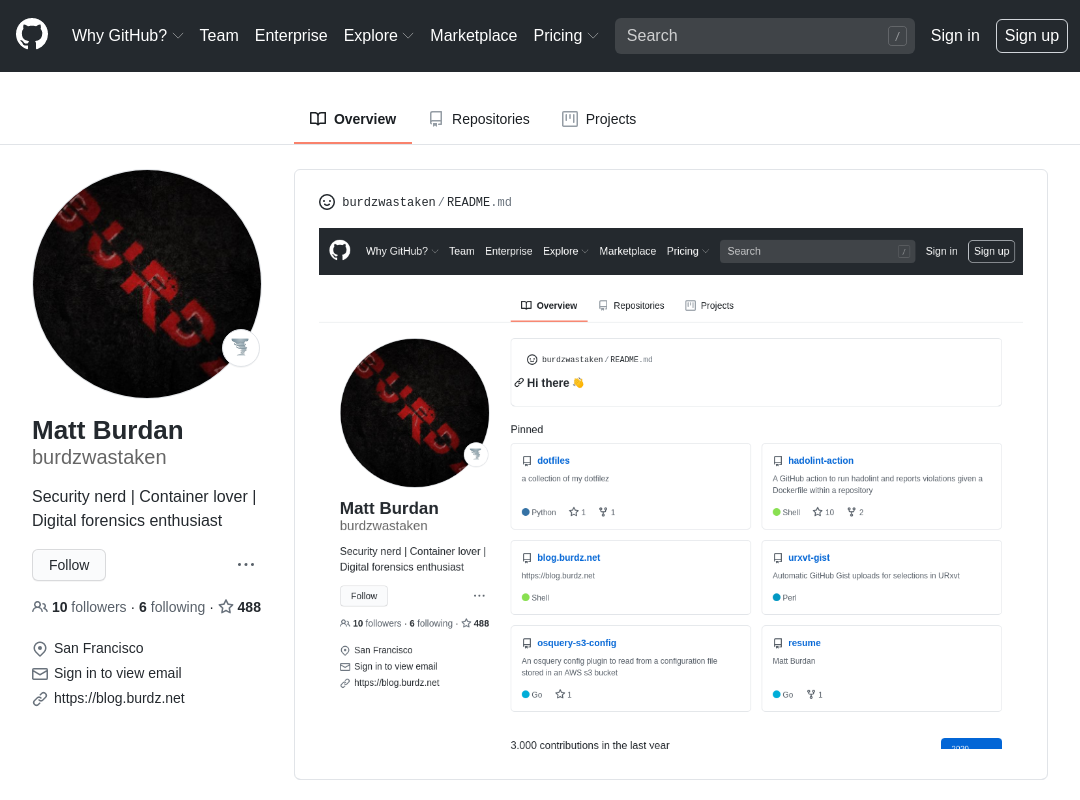
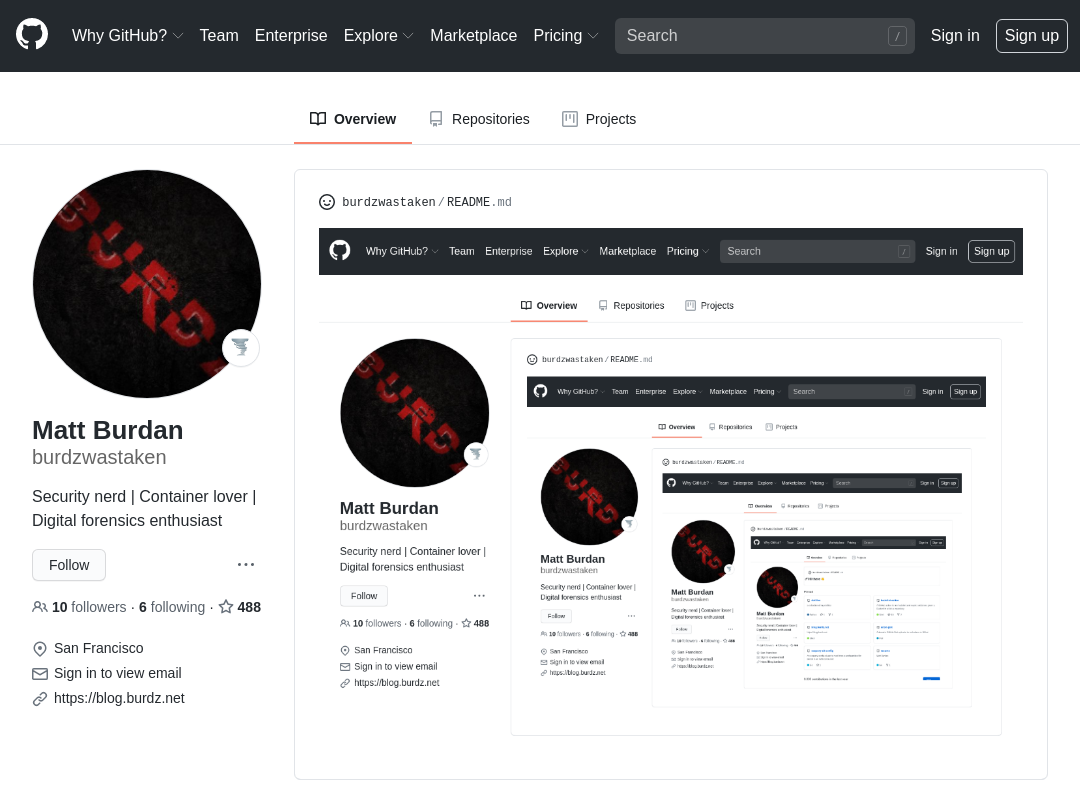
"adds new screenshot at depth 1"

Changed region(s): [[0.4889, 0.4688, 0.9167, 0.875], [0.4889, 0.9062, 0.6111, 0.9375], [0.8556, 0.9062, 0.9472, 0.9375]]

diff --git a/README.md b/README.md
@@ -1,1 +1,1 @@
-![Woah!](https://github.com/burdzwastaken/burdzwastaken/blob/master/screenshot-2.png)
+![Woah!](https://github.com/burdzwastaken/burdzwastaken/blob/master/screenshot-1.png)
